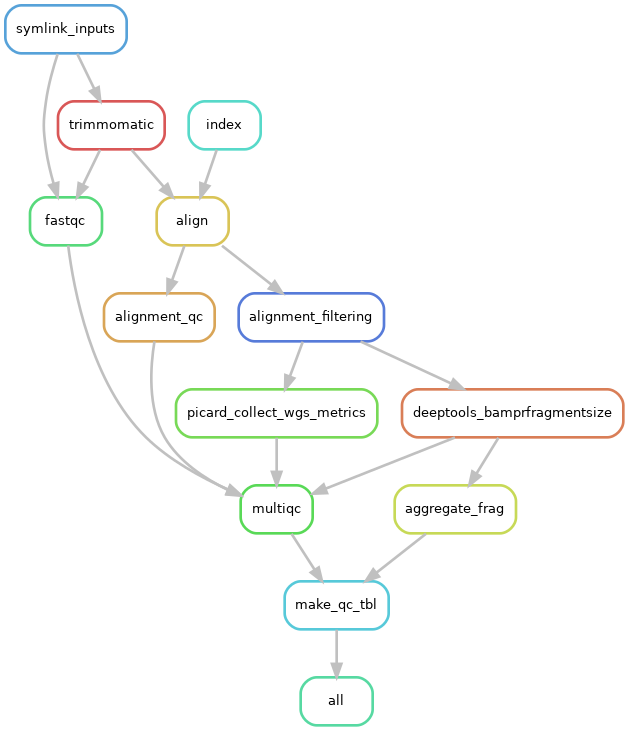
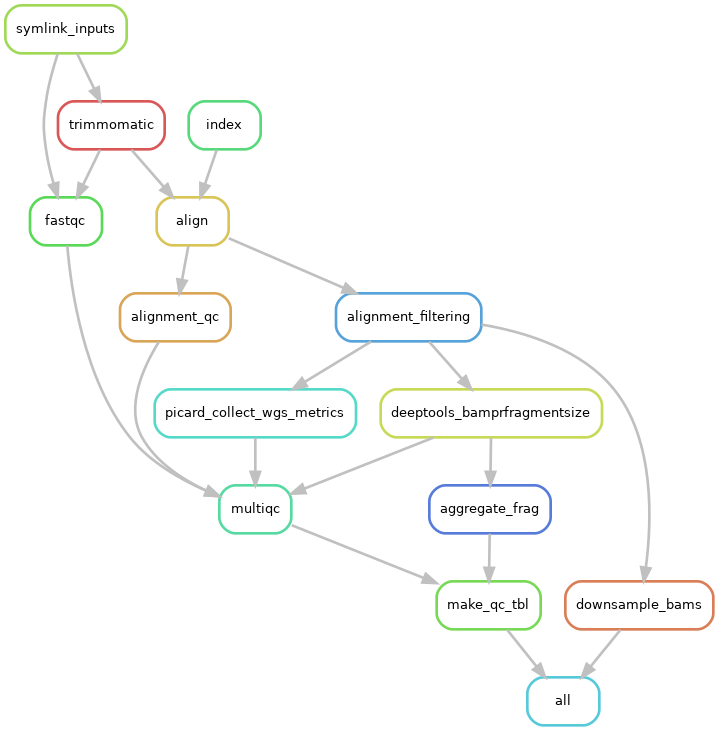
v5

Changed region(s): [[0.0, 0.0, 0.9968, 1.0], [0.725, 0.4514, 0.7854, 0.4815]]

diff --git a/README.md b/README.md
@@ -12,6 +12,7 @@ Files labeled int\_test will run integration testing of all rules on a small dat
 
 # Changlog
 
+-   <span class="timestamp-wrapper"><span class="timestamp">[2022-08-05 Fri] </span></span> - Version 5.0.0 validated: Added a symlink rule based on python dictionary. Added repo-specific output naming, added checks for sequence type and file readability to input tsv.
 -   <span class="timestamp-wrapper"><span class="timestamp">[2022-06-27 Mon] </span></span> - Version 4 validated. Further expanded read\_qc.tsv table. Removed bam post-processing step and added a more expansive bam filtering step. Updated downsampling to work off filtered alignments.
 -   <span class="timestamp-wrapper"><span class="timestamp">[2022-06-26 Sun] </span></span> - Version 3.2 validated. Expanded the qc aggregate table and added some comments.
 -   <span class="timestamp-wrapper"><span class="timestamp">[2022-06-24 Fri] </span></span> - Validate version 3.1 which includes genome index build as a snakefile rule.
